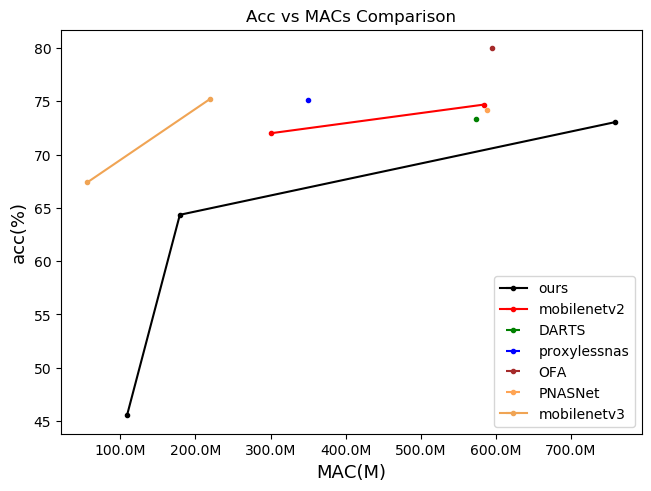
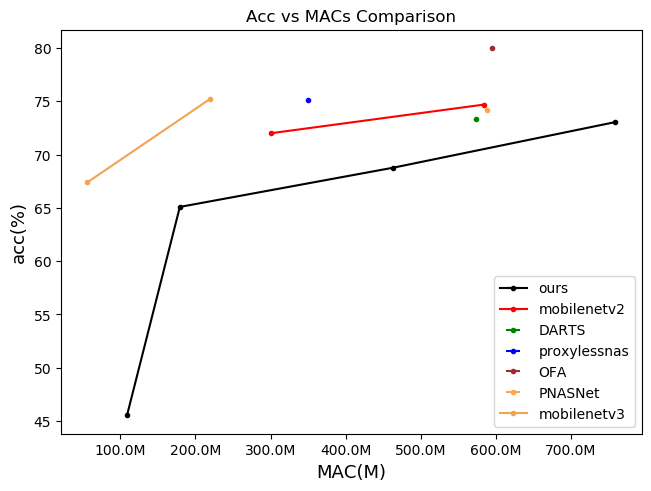
add mobilenetv2 and v3 operation testing

diff --git a/cnn/operations.py b/cnn/operations.py
@@ -1,5 +1,6 @@
 import torch
 import torch.nn as nn
+import torch.nn.functional as F
 
 OPS = {
     "none": lambda C, stride, affine: Zero(stride),
@@ -28,28 +29,28 @@ OPS = {
     "mobilenetV2_1.0": lambda C, stride, affine: InvertedResidual(C, C, stride, 1),
     "mobilenetV2_1.4": lambda C, stride, affine: InvertedResidual(C, C, stride, 6),
     "mobilenetV3_1.0_3x3_Hswish": lambda C, stride, affine: MobileBottleneck(
-        C, C, 3, stride, 1, se=False, nl="RE"
+        C, C, 3, stride, exp=C, se=False, nl="RE"
     ),
     "mobilenetV3_1.0_5x5_Hswish": lambda C, stride, affine: MobileBottleneck(
-        C, C, 5, stride, 1, se=False, nl="RE"
+        C, C, 5, stride, exp=C, se=False, nl="RE"
     ),
     "mobilenetV3_1.0_3x3_Hsigmoid": lambda C, stride, affine: MobileBottleneck(
-        C, C, 3, stride, 1, se=False, nl="HS"
+        C, C, 3, stride, exp=C, se=False, nl="HS"
     ),
     "mobilenetV3_1.0_5x5_Hsigmoid": lambda C, stride, affine: MobileBottleneck(
-        C, C, 5, stride, 1, se=False, nl="HS"
+        C, C, 5, stride, exp=C, se=False, nl="HS"
     ),
     "mobilenetV3_1.0_3x3_Hswish_SE": lambda C, stride, affine: MobileBottleneck(
-        C, C, 3, stride, 1, se=True, nl="RE"
+        C, C, 3, stride, exp=C, se=True, nl="RE"
     ),
     "mobilenetV3_1.0_5x5_Hswish_SE": lambda C, stride, affine: MobileBottleneck(
-        C, C, 5, stride, 1, se=True, nl="RE"
+        C, C, 5, stride, exp=C, se=True, nl="RE"
     ),
     "mobilenetV3_1.0_3x3_Hsigmoid_SE": lambda C, stride, affine: MobileBottleneck(
-        C, C, 3, stride, 1, se=True, nl="HS"
+        C, C, 3, stride, exp=C, se=True, nl="HS"
     ),
     "mobilenetV3_1.0_5x5_Hsigmoid_SE": lambda C, stride, affine: MobileBottleneck(
-        C, C, 5, stride, 1, se=True, nl="HS"
+        C, C, 5, stride, exp=C, se=True, nl="HS"
     ),
     "conv_7x1_1x7": lambda C, stride, affine: nn.Sequential(
         nn.ReLU(inplace=False),
@@ -135,6 +136,24 @@ class SepConv(nn.Module):
 
 
 # Original MobileNetV2 https://github.com/pytorch/vision
+class ConvBNReLU(nn.Sequential):
+    def __init__(self, in_planes, out_planes, kernel_size=3, stride=1, groups=1):
+        padding = (kernel_size - 1) // 2
+        super(ConvBNReLU, self).__init__(
+            nn.Conv2d(
+                in_planes,
+                out_planes,
+                kernel_size,
+                stride,
+                padding,
+                groups=groups,
+                bias=False,
+            ),
+            nn.BatchNorm2d(out_planes),
+            nn.ReLU6(inplace=True),
+        )
+
+
 class InvertedResidual(nn.Module):
     def __init__(self, C_in, C_out, stride, exp):
         super(InvertedResidual, self).__init__()
@@ -186,34 +205,32 @@ class Hsigmoid(nn.Module):
         return F.relu6(x + 3.0, inplace=self.inplace) / 6.0
 
 
-def _make_divisible(v, divisor, min_value=None):
-    """
-    This function is taken from the original tf repo.
-    It ensures that all layers have a channel number that is divisible by 8
-    It can be seen here:
-    https://github.com/tensorflow/models/blob/master/research/slim/nets/mobilenet/mobilenet.py
-    :param v:
-    :param divisor:
-    :param min_value:
-    :return:
-    """
-    if min_value is None:
-        min_value = divisor
-    new_v = max(min_value, int(v + divisor / 2) // divisor * divisor)
-    # Make sure that round down does not go down by more than 10%.
-    if new_v < 0.9 * v:
-        new_v += divisor
-    return new_v
+"""
+This function is taken from the original tf repo.
+It ensures that all layers have a channel number that is divisible by 8
+It can be seen here:
+https://github.com/tensorflow/models/blob/master/research/slim/nets/mobilenet/mobilenet.py
+:param v:
+:param divisor:
+:param min_value:
+:return:
+"""
 
 
-class SELayer(nn.Module):
+def make_divisible(x, divisible_by=8):
+    import numpy as np
+
+    return int(np.ceil(x * 1.0 / divisible_by) * divisible_by)
+
+
+class SEModule(nn.Module):
     def __init__(self, channel, reduction=4):
-        super(SELayer, self).__init__()
+        super(SEModule, self).__init__()
         self.avg_pool = nn.AdaptiveAvgPool2d(1)
         self.fc = nn.Sequential(
-            nn.Linear(channel, _make_divisible(channel // reduction, 8)),
+            nn.Linear(channel, channel // reduction, bias=False),
             nn.ReLU(inplace=True),
-            nn.Linear(_make_divisible(channel // reduction, 8), channel),
+            nn.Linear(channel // reduction, channel, bias=False),
             Hsigmoid(),
         )
 
@@ -221,7 +238,7 @@ class SELayer(nn.Module):
         b, c, _, _ = x.size()
         y = self.avg_pool(x).view(b, c)
         y = self.fc(y).view(b, c, 1, 1)
-        return x * y
+        return x * y.expand_as(x)
 
 
 class MobileBottleneck(nn.Module):
@@ -241,9 +258,9 @@ class MobileBottleneck(nn.Module):
         else:
             raise NotImplementedError
         if se:
-            SELayer = SEModule
+            SELayer = SEModule(C_out)
         else:
-            SELayer = Identity
+            SELayer = Identity()
 
         self.conv = nn.Sequential(
             # pw
@@ -253,7 +270,7 @@ class MobileBottleneck(nn.Module):
             # dw
             conv_layer(exp, exp, kernel, stride, padding, groups=exp, bias=False),
             norm_layer(exp),
-            SELayer(exp),
+            SELayer,
             nlin_layer(inplace=True),
             # pw-linear
             conv_layer(exp, C_out, 1, 1, 0, bias=False),
